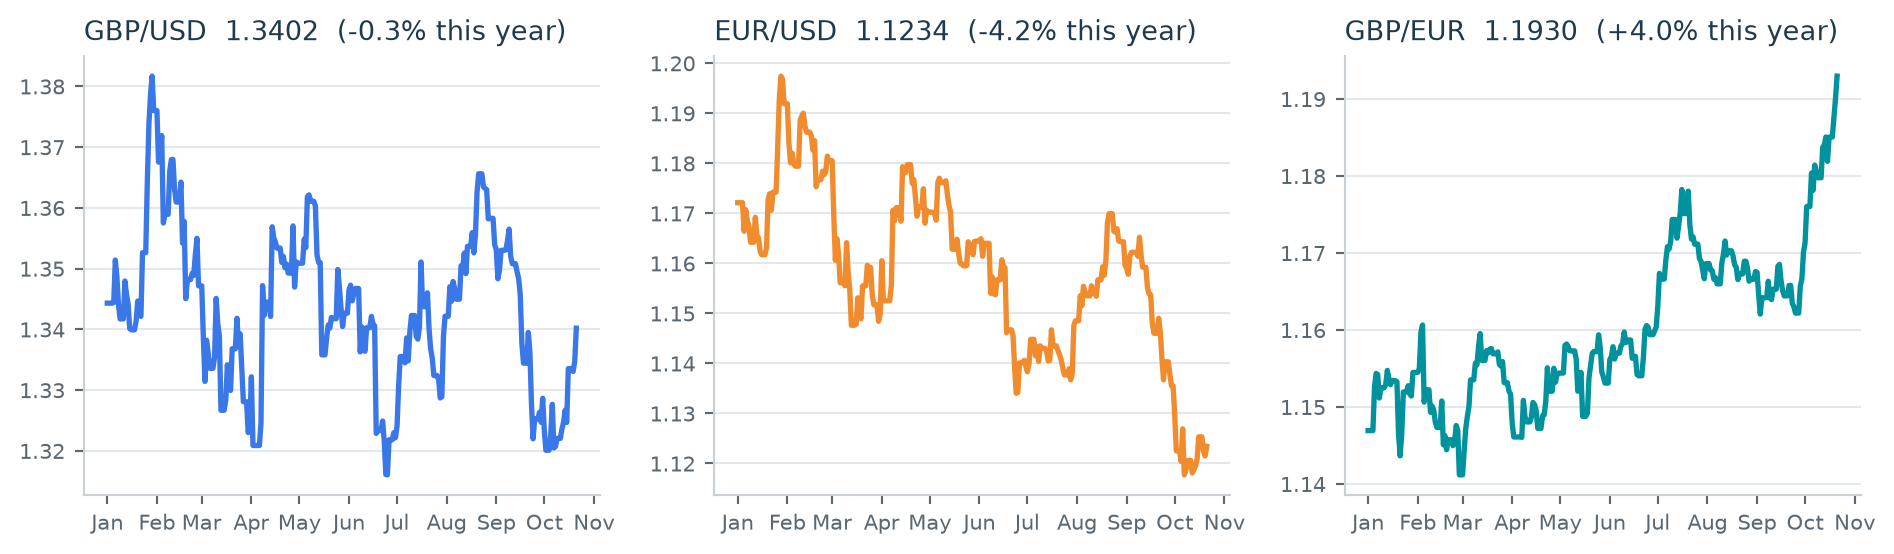
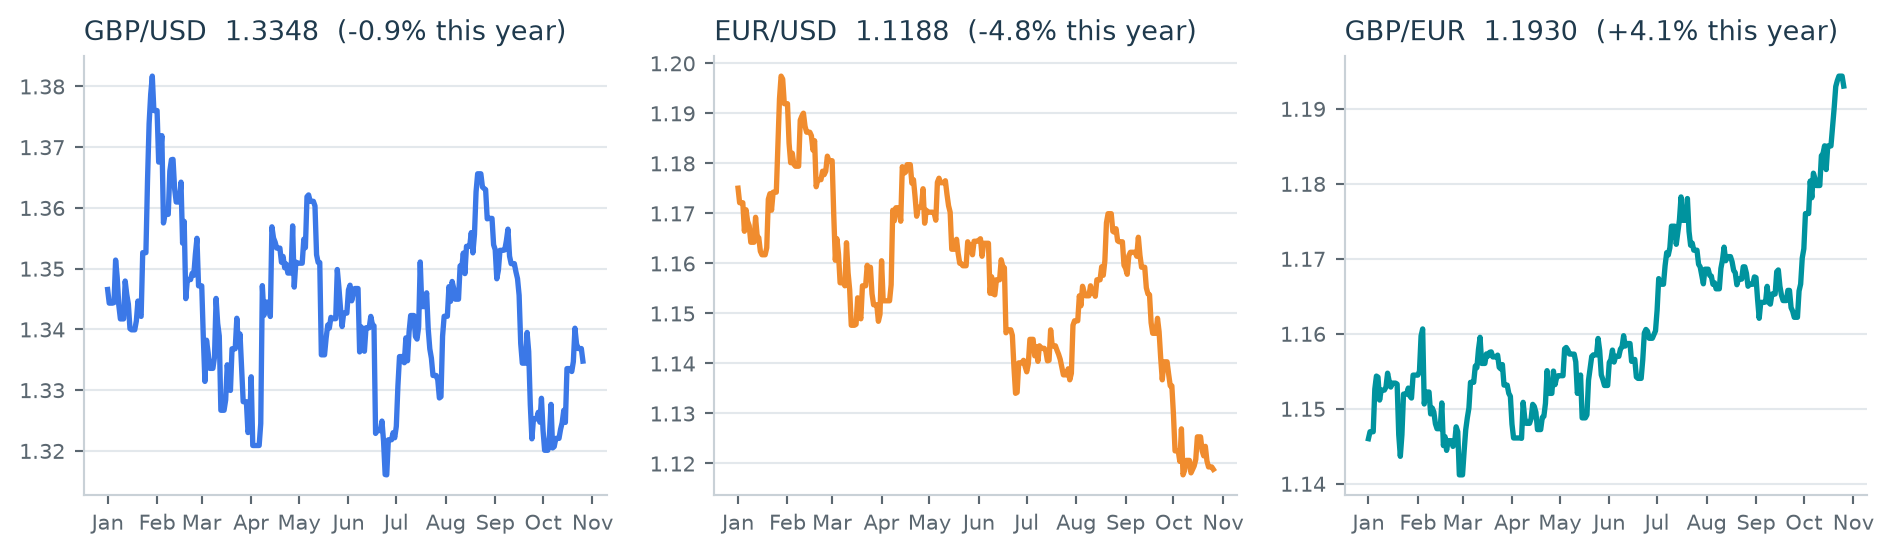
Updated Daily-fx-rates quarto report

diff --git a/docs/daily-fx-rates/report.html b/docs/daily-fx-rates/report.html
@@ -528,7 +528,7 @@ pre > code.sourceCode > span > a:first-child::before { text-decoration: underlin
 <section id="example" class="level1">
 <h1>Example</h1>
 <p>The CSV stores units of each currency per 1 USD. The reports turn them into market pairs: GBP/USD and EUR/USD (dollars per pound and per euro), and GBP/EUR (euros per pound). The latest days:</p>
-<div id="18cb224c" class="cell" data-execution_count="1">
+<div id="f666d101" class="cell" data-execution_count="1">
 <div class="code-copy-outer-scaffold"><div class="sourceCode cell-code" id="cb4"><pre class="sourceCode python code-with-copy"><code class="sourceCode python"><span id="cb4-1"><a href="#cb4-1" aria-hidden="true" tabindex="-1"></a><span class="im">import</span> pandas <span class="im">as</span> pd</span>
 <span id="cb4-2"><a href="#cb4-2" aria-hidden="true" tabindex="-1"></a><span class="im">import</span> matplotlib.pyplot <span class="im">as</span> plt</span>
 <span id="cb4-3"><a href="#cb4-3" aria-hidden="true" tabindex="-1"></a><span class="im">from</span> pathlib <span class="im">import</span> Path</span>
@@ -558,14 +558,14 @@ pre > code.sourceCode > span > a:first-child::before { text-decoration: underlin
 <style type="text/css">
 </style>
 
-<table id="T_c740f" class="caption-top table table-sm table-striped small">
+<table id="T_7e2c0" class="caption-top table table-sm table-striped small">
 <thead>
 <tr class="header">
 <th class="blank level0" data-quarto-table-cell-role="th">&nbsp;</th>
-<th id="T_c740f_level0_col0" class="col_heading level0 col0" data-quarto-table-cell-role="th">GBP/USD</th>
-<th id="T_c740f_level0_col1" class="col_heading level0 col1" data-quarto-table-cell-role="th">EUR/USD</th>
-<th id="T_c740f_level0_col2" class="col_heading level0 col2" data-quarto-table-cell-role="th">GBP/EUR</th>
-<th id="T_c740f_level0_col3" class="col_heading level0 col3" data-quarto-table-cell-role="th">Rate type</th>
+<th id="T_7e2c0_level0_col0" class="col_heading level0 col0" data-quarto-table-cell-role="th">GBP/USD</th>
+<th id="T_7e2c0_level0_col1" class="col_heading level0 col1" data-quarto-table-cell-role="th">EUR/USD</th>
+<th id="T_7e2c0_level0_col2" class="col_heading level0 col2" data-quarto-table-cell-role="th">GBP/EUR</th>
+<th id="T_7e2c0_level0_col3" class="col_heading level0 col3" data-quarto-table-cell-role="th">Rate type</th>
 </tr>
 <tr class="even">
 <th class="index_name level0" data-quarto-table-cell-role="th">Date</th>
@@ -577,60 +577,60 @@ pre > code.sourceCode > span > a:first-child::before { text-decoration: underlin
 </thead>
 <tbody>
 <tr class="odd">
-<th id="T_c740f_level0_row0" class="row_heading level0 row0" data-quarto-table-cell-role="th">Thu 15 Oct 2026</th>
-<td id="T_c740f_row0_col0" class="data row0 col0">1.3247</td>
-<td id="T_c740f_row0_col1" class="data row0 col1">1.1208</td>
-<td id="T_c740f_row0_col2" class="data row0 col2">1.1819</td>
-<td id="T_c740f_row0_col3" class="data row0 col3">market</td>
+<th id="T_7e2c0_level0_row0" class="row_heading level0 row0" data-quarto-table-cell-role="th">Tue 20 Oct 2026</th>
+<td id="T_7e2c0_row0_col0" class="data row0 col0">1.3347</td>
+<td id="T_7e2c0_row0_col1" class="data row0 col1">1.1215</td>
+<td id="T_7e2c0_row0_col2" class="data row0 col2">1.1901</td>
+<td id="T_7e2c0_row0_col3" class="data row0 col3">market</td>
 </tr>
 <tr class="even">
-<th id="T_c740f_level0_row1" class="row_heading level0 row1" data-quarto-table-cell-role="th">Fri 16 Oct 2026</th>
-<td id="T_c740f_row1_col0" class="data row1 col0">1.3335</td>
-<td id="T_c740f_row1_col1" class="data row1 col1">1.1253</td>
-<td id="T_c740f_row1_col2" class="data row1 col2">1.1850</td>
-<td id="T_c740f_row1_col3" class="data row1 col3">market</td>
+<th id="T_7e2c0_level0_row1" class="row_heading level0 row1" data-quarto-table-cell-role="th">Wed 21 Oct 2026</th>
+<td id="T_7e2c0_row1_col0" class="data row1 col0">1.3402</td>
+<td id="T_7e2c0_row1_col1" class="data row1 col1">1.1234</td>
+<td id="T_7e2c0_row1_col2" class="data row1 col2">1.1930</td>
+<td id="T_7e2c0_row1_col3" class="data row1 col3">market</td>
 </tr>
 <tr class="odd">
-<th id="T_c740f_level0_row2" class="row_heading level0 row2" data-quarto-table-cell-role="th">Sat 17 Oct 2026</th>
-<td id="T_c740f_row2_col0" class="data row2 col0">1.3335</td>
-<td id="T_c740f_row2_col1" class="data row2 col1">1.1253</td>
-<td id="T_c740f_row2_col2" class="data row2 col2">1.1850</td>
-<td id="T_c740f_row2_col3" class="data row2 col3">filled</td>
+<th id="T_7e2c0_level0_row2" class="row_heading level0 row2" data-quarto-table-cell-role="th">Thu 22 Oct 2026</th>
+<td id="T_7e2c0_row2_col0" class="data row2 col0">1.3376</td>
+<td id="T_7e2c0_row2_col1" class="data row2 col1">1.1205</td>
+<td id="T_7e2c0_row2_col2" class="data row2 col2">1.1938</td>
+<td id="T_7e2c0_row2_col3" class="data row2 col3">market</td>
 </tr>
 <tr class="even">
-<th id="T_c740f_level0_row3" class="row_heading level0 row3" data-quarto-table-cell-role="th">Sun 18 Oct 2026</th>
-<td id="T_c740f_row3_col0" class="data row3 col0">1.3335</td>
-<td id="T_c740f_row3_col1" class="data row3 col1">1.1253</td>
-<td id="T_c740f_row3_col2" class="data row3 col2">1.1850</td>
-<td id="T_c740f_row3_col3" class="data row3 col3">filled</td>
+<th id="T_7e2c0_level0_row3" class="row_heading level0 row3" data-quarto-table-cell-role="th">Fri 23 Oct 2026</th>
+<td id="T_7e2c0_row3_col0" class="data row3 col0">1.3368</td>
+<td id="T_7e2c0_row3_col1" class="data row3 col1">1.1193</td>
+<td id="T_7e2c0_row3_col2" class="data row3 col2">1.1943</td>
+<td id="T_7e2c0_row3_col3" class="data row3 col3">market</td>
 </tr>
 <tr class="odd">
-<th id="T_c740f_level0_row4" class="row_heading level0 row4" data-quarto-table-cell-role="th">Mon 19 Oct 2026</th>
-<td id="T_c740f_row4_col0" class="data row4 col0">1.3330</td>
-<td id="T_c740f_row4_col1" class="data row4 col1">1.1225</td>
-<td id="T_c740f_row4_col2" class="data row4 col2">1.1876</td>
-<td id="T_c740f_row4_col3" class="data row4 col3">market</td>
+<th id="T_7e2c0_level0_row4" class="row_heading level0 row4" data-quarto-table-cell-role="th">Sat 24 Oct 2026</th>
+<td id="T_7e2c0_row4_col0" class="data row4 col0">1.3368</td>
+<td id="T_7e2c0_row4_col1" class="data row4 col1">1.1193</td>
+<td id="T_7e2c0_row4_col2" class="data row4 col2">1.1943</td>
+<td id="T_7e2c0_row4_col3" class="data row4 col3">filled</td>
 </tr>
 <tr class="even">
-<th id="T_c740f_level0_row5" class="row_heading level0 row5" data-quarto-table-cell-role="th">Tue 20 Oct 2026</th>
-<td id="T_c740f_row5_col0" class="data row5 col0">1.3347</td>
-<td id="T_c740f_row5_col1" class="data row5 col1">1.1215</td>
-<td id="T_c740f_row5_col2" class="data row5 col2">1.1901</td>
-<td id="T_c740f_row5_col3" class="data row5 col3">market</td>
+<th id="T_7e2c0_level0_row5" class="row_heading level0 row5" data-quarto-table-cell-role="th">Sun 25 Oct 2026</th>
+<td id="T_7e2c0_row5_col0" class="data row5 col0">1.3368</td>
+<td id="T_7e2c0_row5_col1" class="data row5 col1">1.1193</td>
+<td id="T_7e2c0_row5_col2" class="data row5 col2">1.1943</td>
+<td id="T_7e2c0_row5_col3" class="data row5 col3">filled</td>
 </tr>
 <tr class="odd">
-<th id="T_c740f_level0_row6" class="row_heading level0 row6" data-quarto-table-cell-role="th">Wed 21 Oct 2026</th>
-<td id="T_c740f_row6_col0" class="data row6 col0">1.3402</td>
-<td id="T_c740f_row6_col1" class="data row6 col1">1.1234</td>
-<td id="T_c740f_row6_col2" class="data row6 col2">1.1930</td>
-<td id="T_c740f_row6_col3" class="data row6 col3">market</td>
+<th id="T_7e2c0_level0_row6" class="row_heading level0 row6" data-quarto-table-cell-role="th">Mon 26 Oct 2026</th>
+<td id="T_7e2c0_row6_col0" class="data row6 col0">1.3348</td>
+<td id="T_7e2c0_row6_col1" class="data row6 col1">1.1188</td>
+<td id="T_7e2c0_row6_col2" class="data row6 col2">1.1930</td>
+<td id="T_7e2c0_row6_col3" class="data row6 col3">market</td>
 </tr>
 </tbody>
 </table>
 </div>
 </div>
 <p>This year’s performance, one panel per pair:</p>
-<div id="612e846c" class="cell" data-execution_count="2">
+<div id="eb617817" class="cell" data-execution_count="2">
 <div class="code-copy-outer-scaffold"><div class="sourceCode cell-code" id="cb5"><pre class="sourceCode python code-with-copy"><code class="sourceCode python"><span id="cb5-1"><a href="#cb5-1" aria-hidden="true" tabindex="-1"></a><span class="co"># Same colour per pair as the Streamlit app.</span></span>
 <span id="cb5-2"><a href="#cb5-2" aria-hidden="true" tabindex="-1"></a>colors <span class="op">=</span> {<span class="st">'GBP/USD'</span>: <span class="st">'#3B78E7'</span>, <span class="st">'EUR/USD'</span>: <span class="st">'#F08C2E'</span>, <span class="st">'GBP/EUR'</span>: <span class="st">'#00939E'</span>}</span>
 <span id="cb5-3"><a href="#cb5-3" aria-hidden="true" tabindex="-1"></a>this_year <span class="op">=</span> pairs.loc[<span class="bu">str</span>(pairs.index.<span class="bu">max</span>().year)]</span>
@@ -653,7 +653,7 @@ pre > code.sourceCode > span > a:first-child::before { text-decoration: underlin
 <div class="cell-output cell-output-display">
 <div>
 <figure class="figure">
-<p><img src="report_files/figure-html/cell-3-output-1.png" width="947" height="277" class="figure-img"></p>
+<p><img src="report_files/figure-html/cell-3-output-1.png" width="946" height="277" class="figure-img"></p>
 </figure>
 </div>
 </div>
